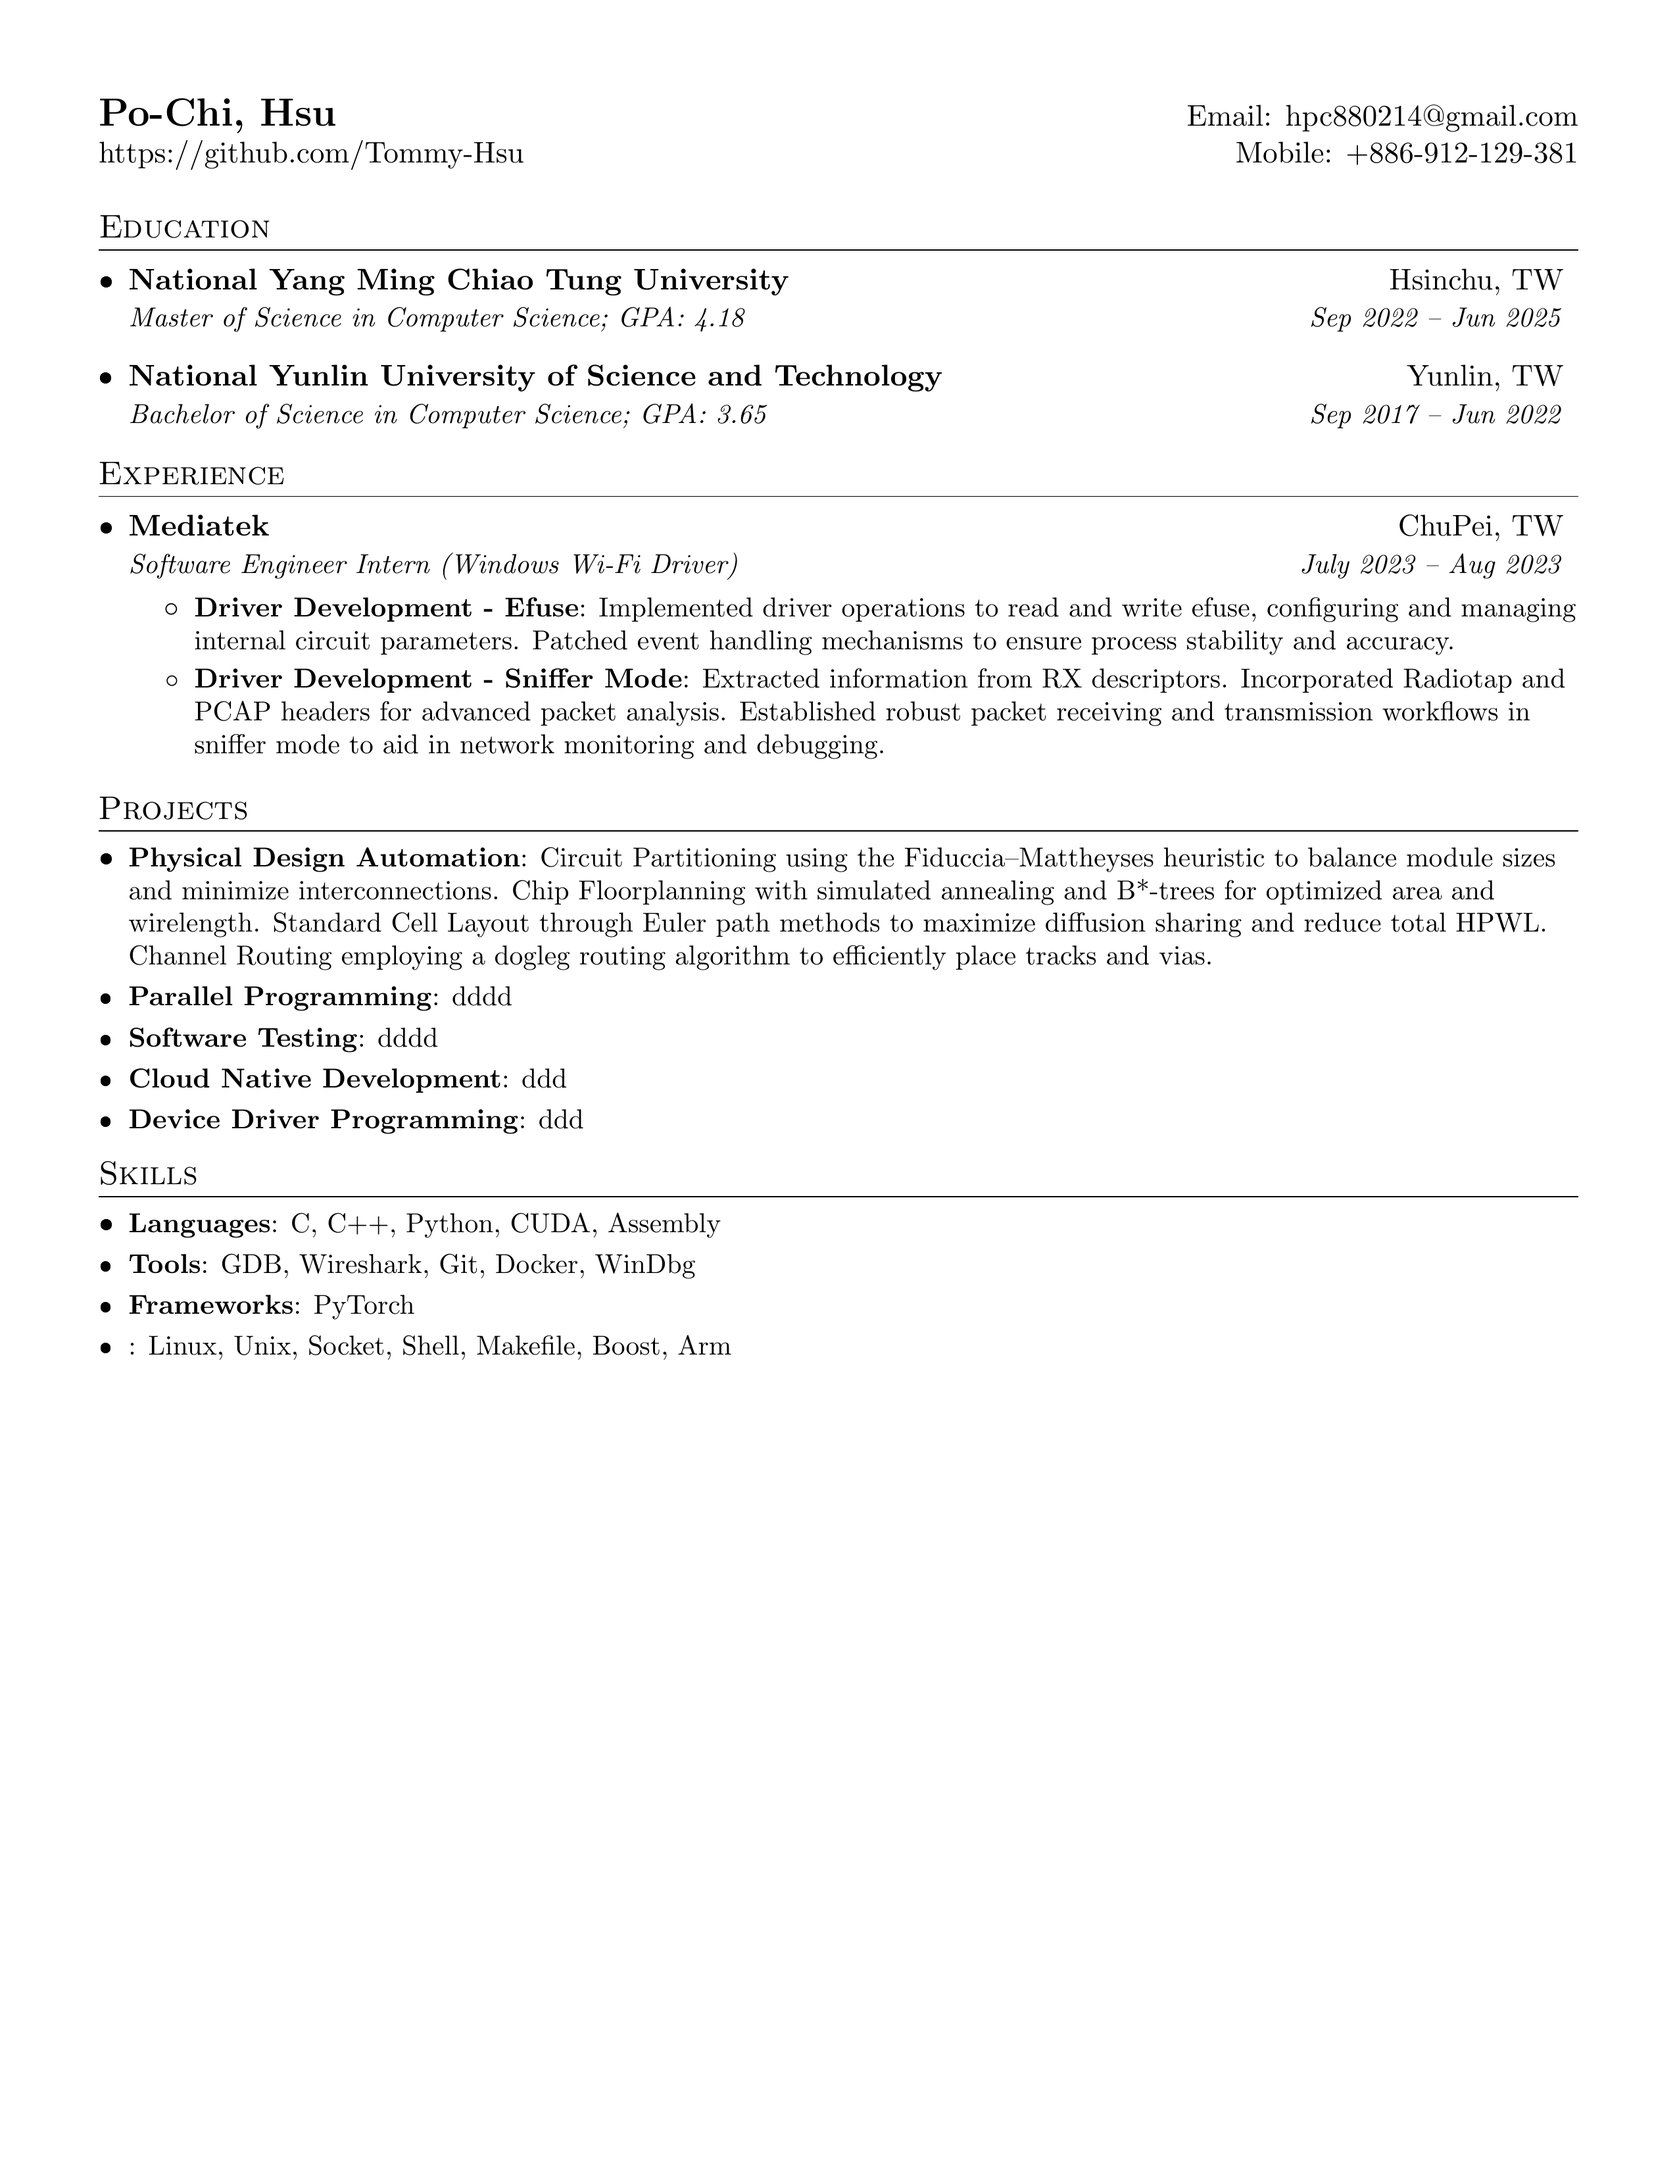
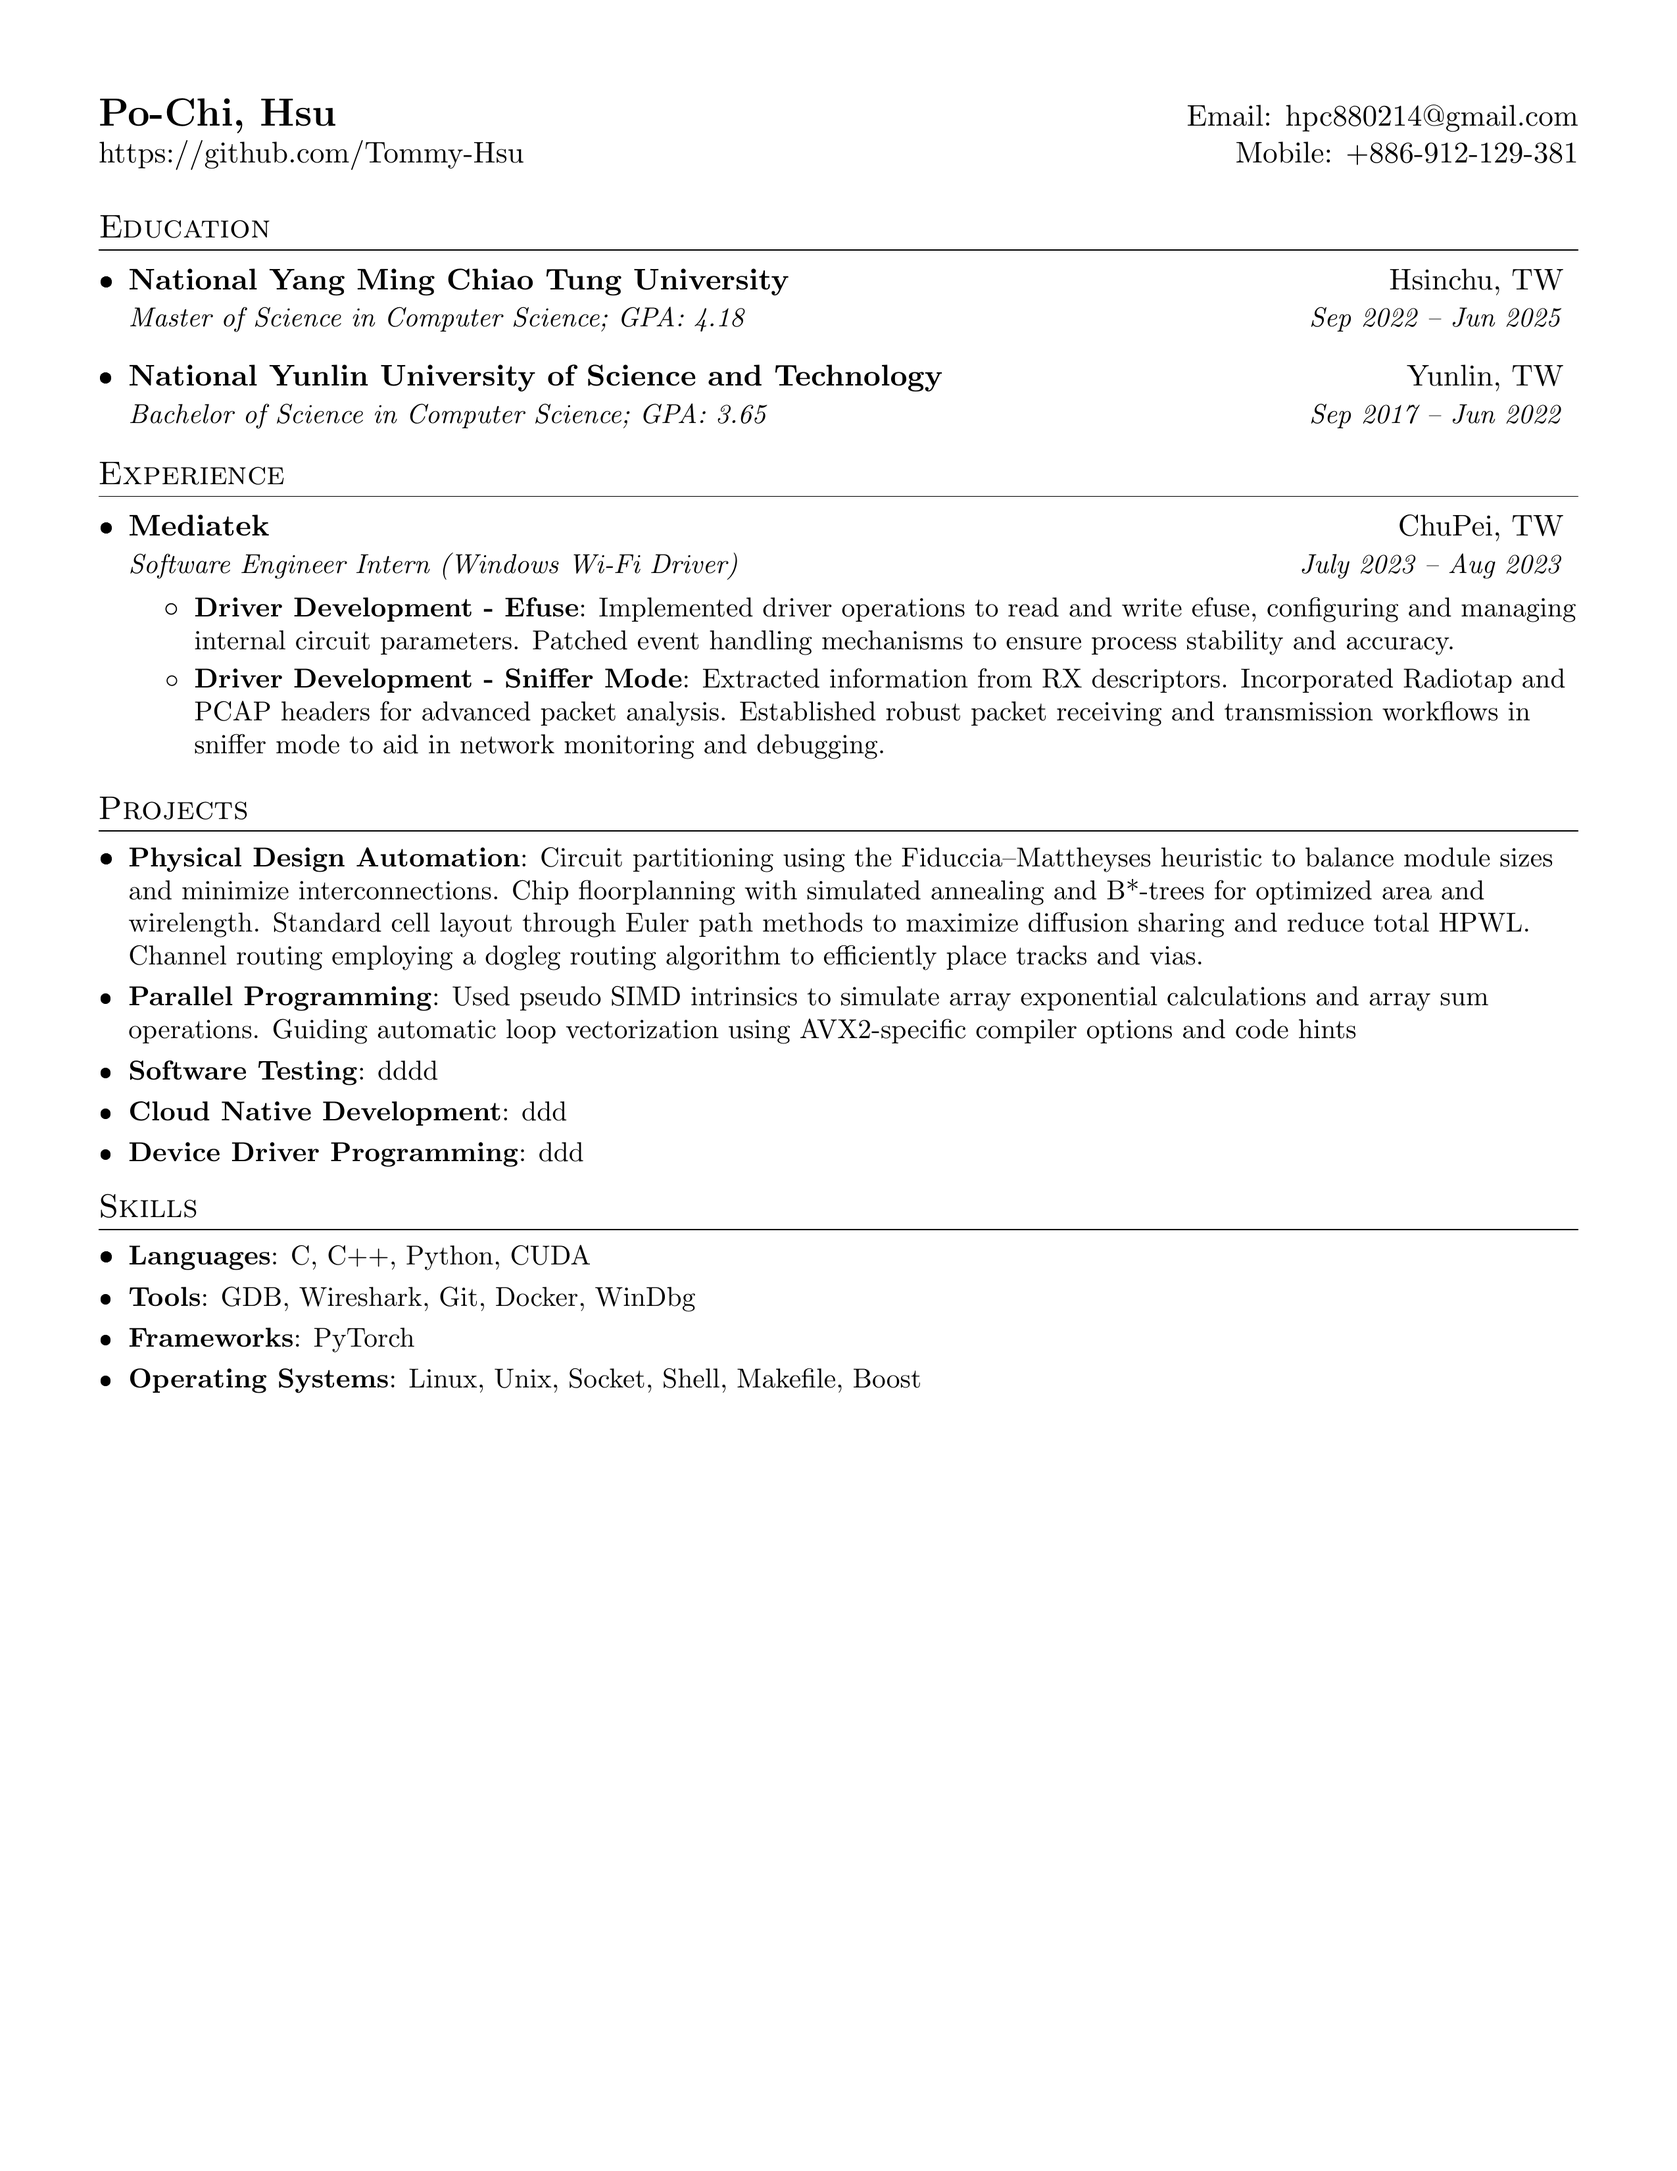
Parallel Programming Assign 1

Changed region(s): [[0.062, 0.3745, 0.9294, 0.6555]]

diff --git a/hpc.tex b/hpc.tex
@@ -131,12 +131,13 @@
 \section{Projects}
   \resumeSubHeadingListStart
     \resumeSubItem{Physical Design Automation}
-      {Circuit Partitioning using the Fiduccia–Mattheyses heuristic to balance module sizes and minimize interconnections. 
-        Chip Floorplanning with simulated annealing and B*-trees for optimized area and wirelength.
-        Standard Cell Layout through Euler path methods to maximize diffusion sharing and reduce total HPWL.
-        Channel Routing employing a dogleg routing algorithm to efficiently place tracks and vias.}
+      {Circuit partitioning using the Fiduccia–Mattheyses heuristic to balance module sizes and minimize interconnections. 
+        Chip floorplanning with simulated annealing and B*-trees for optimized area and wirelength.
+        Standard cell layout through Euler path methods to maximize diffusion sharing and reduce total HPWL.
+        Channel routing employing a dogleg routing algorithm to efficiently place tracks and vias.}
     \resumeSubItem{Parallel Programming}
-      {dddd}
+      {Used pseudo SIMD intrinsics to simulate array exponential calculations and array sum operations.
+      Guiding automatic loop vectorization using AVX2-specific compiler options and code hints.}
     \resumeSubItem{Software Testing}
       {dddd}
     \resumeSubItem{Cloud Native Development}
@@ -149,13 +150,13 @@
 \section{Skills}
   \resumeSubHeadingListStart
   \resumeSubItem{Languages}
-    {C, C++, Python, CUDA, Assembly}
+    {C, C++, Python, CUDA}
   \resumeSubItem{Tools}
     {GDB, Wireshark, Git, Docker, WinDbg}
   \resumeSubItem{Frameworks}
     {PyTorch}
-  \resumeSubItem{}
-    {Linux, Unix, Socket, Shell, Makefile, Boost, Arm}
+  \resumeSubItem{Operating Systems}
+    {Linux, Unix, Socket, Shell, Makefile, Boost}
   \resumeSubHeadingListEnd
 
 %-------------------------------------------
